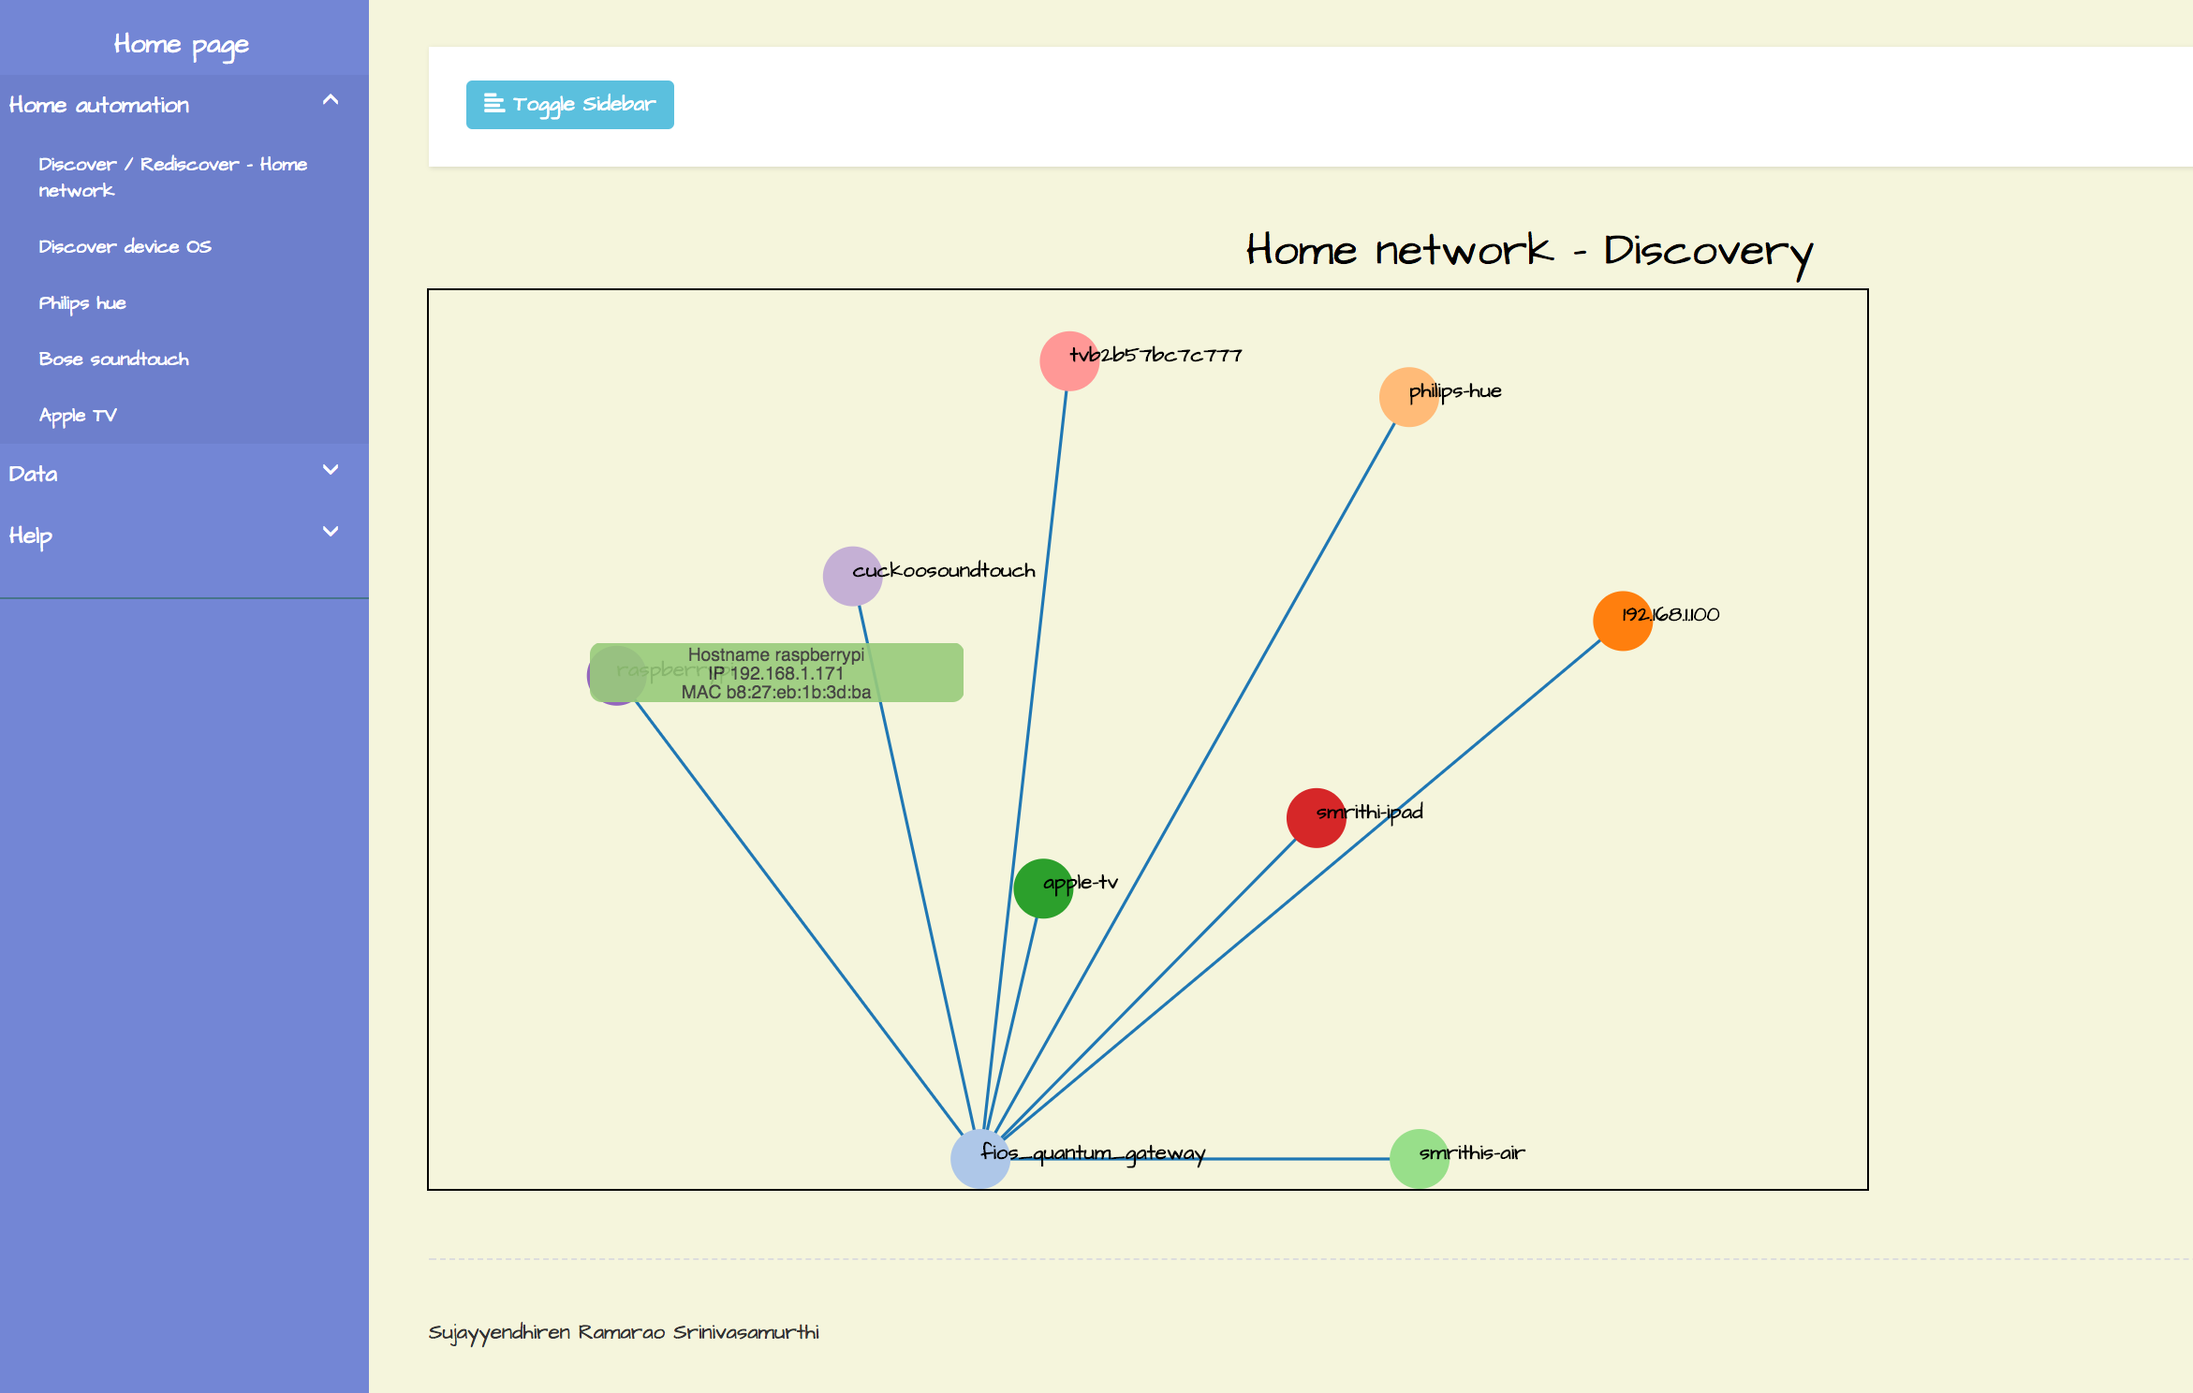
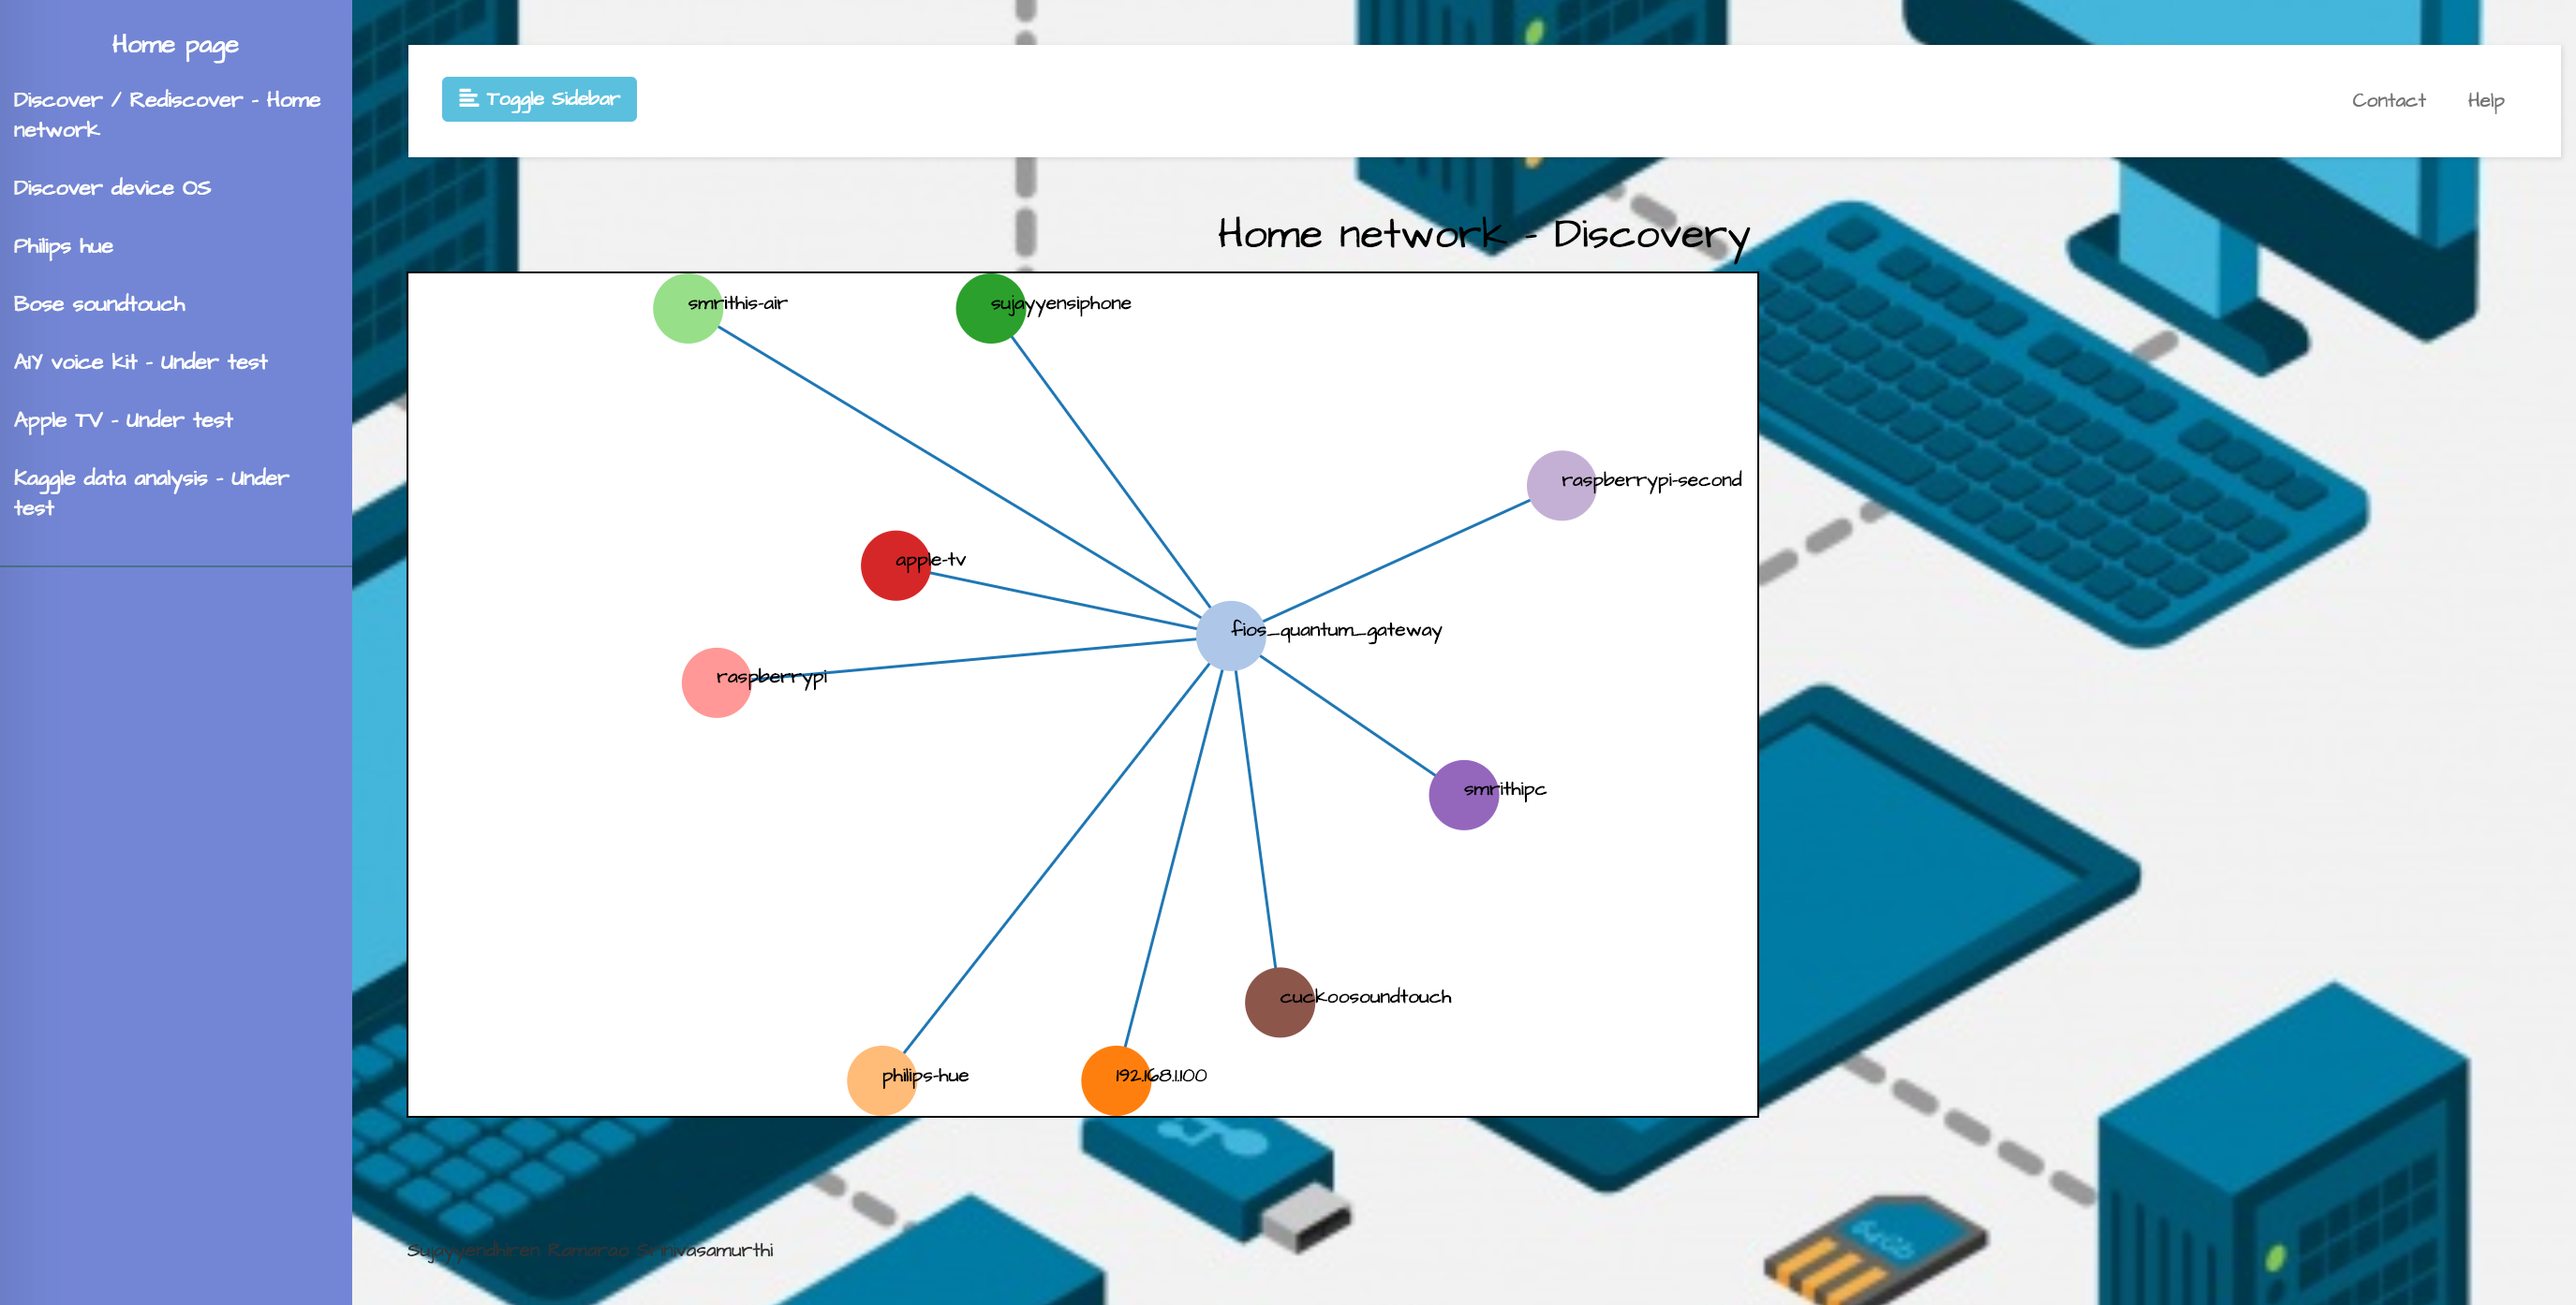
A few fixes and minor improvements.

diff --git a/templates/ostable.html b/templates/ostable.html
@@ -5,45 +5,47 @@
 {% block head %}
     {{ super() }}
     <link href="/static/css/discover.css" rel="stylesheet">
+    <style>
+        .container-full {
+            background-color: white;
+            margin: 0 auto;
+            width: 100%;
+        }
+    </style>
 {% endblock %}
 
 {% block content %}
 <h2 align="center">Home network - OS detection</h2>
-    
-<div class="panel panel-info">
-    <div class="panel-heading">Os detection
-    </div>
-    
-    <div class="panel-body">
-        <table class="table table-bordered table-striped" data-toggle="table" data-search="true" data-filter-control="true" data-show-export="true" data-click-to-select="true">
-            <thead>
-                <tr>
-                    <th>Hostname</th>
-                    <th>IP address</th>
-                    <th>OS name</th>
-                    <th>Detection Accuracy (%)</th>
-                    <th>Type</th>
-                    <th>Vendor</th>
-                    <th>OS family</th>
-                    <th>OS Gen</th>
-                </tr>
-            </thead>
 
-            <tbody>
-            {% for elem in osdata %}
-                <tr>
-                    <td>{{elem.hostname}}</td>
-                    <td>{{elem.ip}}</td>
-                    <td>{{elem.osname}}</td>
-                    <td>{{elem.osaccuracy}}</td>
-                    <td>{{elem.ostype}}</td>
-                    <td>{{elem.osvendor}}</td>
-                    <td>{{elem.osfamily}}</td>
-                    <td>{{elem.osgen}}</td>
-                </tr>
-            {%endfor%}
-            </tbody>
-        </table> 
-    </div>
+<div class="container-full">
+    <table class="table table-bordered table-striped" data-toggle="table" data-search="true" data-filter-control="true" data-show-export="true" data-click-to-select="true">
+        <thead>
+            <tr>
+                <th>Hostname</th>
+                <th>IP address</th>
+                <th>OS name</th>
+                <th>Detection Accuracy (%)</th>
+                <th>Type</th>
+                <th>Vendor</th>
+                <th>OS family</th>
+                <th>OS Gen</th>
+            </tr>
+        </thead>
+
+        <tbody>
+        {% for elem in osdata %}
+            <tr>
+                <td>{{elem.hostname}}</td>
+                <td>{{elem.ip}}</td>
+                <td>{{elem.osname}}</td>
+                <td>{{elem.osaccuracy}}</td>
+                <td>{{elem.ostype}}</td>
+                <td>{{elem.osvendor}}</td>
+                <td>{{elem.osfamily}}</td>
+                <td>{{elem.osgen}}</td>
+            </tr>
+        {%endfor%}
+        </tbody>
+    </table>
 </div>
 {% endblock %}

diff --git a/templates/d3homedevices.html b/templates/d3homedevices.html
@@ -29,17 +29,17 @@
   }
 </style>
 
-<svg width="960" height="600" align="center"></svg>
-
 <script src="https://d3js.org/d3.v4.min.js"></script>
 <link href="https://fonts.googleapis.com/css?family=Architects+Daughter" rel="stylesheet">
 
-<script>
+<svg width="960" height="600" align="center"></svg>
 
+<script>
 d3.select("body").style("background-color", d3.rgb(245, 245, 220))
 
 var svg = d3.select("svg")
-         .attr("style", "outline: thin solid black;");
+         .attr("style", "outline: thin solid black;")
+         .style("background-color", "white");
 
 var  width = +svg.attr("width");
 var height = +svg.attr("height");
@@ -54,7 +54,7 @@ var simulation = d3.forceSimulation()
 
 var color = d3.scaleOrdinal(d3.schemeCategory20);
 
-d3.json("/static/data/graph.json", function(error, graph) {
+d3.json("{{jsonfile}}", function(error, graph) {
     if (error) throw error;
                 
     //set up the simulation 

diff --git a/static/css/discover.css b/static/css/discover.css
@@ -10,15 +10,15 @@ http://css-tricks.com/perfect-full-page-background-image
 
 Photo:
 http://www.publicdomainpictures.net/view-image.php?image=44399
-
+*/
 
 body { 
-    background: url('/static/img/network.jpg') no-repeat center center fixed; 
+    background: url('/static/img/devices.jpg') no-repeat center center fixed; 
     -webkit-background-size: cover;
     -moz-background-size: cover;
     -o-background-size: cover;
     background-size: cover;
-}*/
+}
   
 .container{
   padding: 25px;   

diff --git a/templates/aiyvoicekit.html b/templates/aiyvoicekit.html
@@ -69,7 +69,7 @@
 </font>
 
 <div class="panel panel-default">
-    <div class="panel-heading"> AIY voicekit - {{rasphostname}} ({{raspip}})</div>
+    <div class="panel-heading"> AIY voicekit - {{service}} ({{status}})</div>
     <div class="panel-body" >
         <div class="container">
             <div class="form-group row">

diff --git a/osdetectioncron.py b/osdetectioncron.py
@@ -5,8 +5,10 @@ Description: Run this program from cron on a periodic basis and cache the data.
              and thus isolating this program helps us not run the flask app with sudo
              permissions
 """
+import os
 import json
 import traceback
+from glob import glob
 from collections import defaultdict
 from multiprocessing import Pool
 
@@ -14,34 +16,6 @@ import nmap
 import pysftp
 from library.network import HomeNetwork
 from library.Utility import Utility
-
-
-def syncaches():
-    """ Sync caches """
-
-    cfg = Utility.read_configuration(configfile="haconf.yml")
-
-    primary = cfg["CLUSTERINFO"]["primary"]
-    myhostname = Utility.hostname()
-    creds = cfg["CREDENTIALS"]
-
-    cnopts = pysftp.CnOpts()
-    cnopts.hostkeys = None
-    with pysftp.Connection(primary, username=creds["username"],\
-         password=creds["password"], cnopts=cnopts) as sftp:
-        with sftp.cd(cfg["DIRECTORY"]["syncdir"]):
-            primary = primary.split('.')[0]
-
-            if primary == myhostname:
-                return
-
-            for acache in cfg["DIRECTORY"]["getfiles"]:
-                print("---GET--- {}".format(acache.format(primary)))
-                sftp.get("cache/{0}".format(acache.format(primary)),\
-                    preserve_mtime=True)
-
-                print("---PUT--- {}".format(acache.format(myhostname)))
-                sftp.put("cache/{0}".format(acache.format(myhostname)))
 
 
 def oshandler(iphost):
@@ -131,6 +105,14 @@ def osdetection():
     Utility.cache('osdetection', 'write', newstruct)
     Utility.cache('osdetectfailed', 'write', osfailure)
 
+
+def cleanup():
+    """ Cleanup previously network topology temp data """
+
+    for afile in glob("static/data/networkdata-*.json"):
+        os.remove(afile)
+
 if __name__ == '__main__':
     HomeNetwork.create_tree()
     osdetection()
+    cleanup()

diff --git a/homeautomation.py b/homeautomation.py
@@ -7,6 +7,7 @@ import os
 import json
 import traceback
 from glob import glob
+from datetime import datetime
 
 import flask
 from flask import Flask, render_template, request
@@ -234,16 +235,15 @@ def osdetection():
 @application.route('/voicekit')
 def googlekit(msg=None):
     """ Google AIY kit """
-    cache = Utility.cache('devices', 'read')
+    service = None
+    status = None
 
-    for hostname in cache:
-        if 'rasp' in hostname and 'pi' in hostname:
-            raspip = cache[hostname]['ip']
-            rasphost = hostname
-            break
+    aiy = Aiy()
+    for service in aiy.available:
+        status = aiy.available[service]
 
-    return render_template('aiyvoicekit.html', rasphostname=rasphost,\
-                raspip=raspip, msg=msg)
+    return render_template('aiyvoicekit.html', service=service,\
+                status=status, msg=msg)
 
 
 @application.route('/aiy/<service>/<action>')
@@ -268,8 +268,10 @@ def aiycontrols(service=None, action=None):
 @application.route('/d3display')
 def d3display():
     """ Discover home network """
-    HomeNetwork.create_d3json()
-    return render_template('d3homedevices.html')
+    filename = "networkdata-{}.json".format(datetime.now())
+    jsonfile = "/static/data/{0}".format(filename)
+    HomeNetwork.create_d3json(jsonfile=jsonfile)
+    return render_template('d3homedevices.html', jsonfile=jsonfile)
 
 
 @application.route('/')

diff --git a/library/network.py b/library/network.py
@@ -130,7 +130,7 @@ class HomeNetwork(object):
         HomeNetwork.add_update_rows(newstruct)
 
     @staticmethod
-    def create_d3json():
+    def create_d3json(jsonfile="static/data/graph.json"):
         """ Create tree from sqlite data """
         gateway = None
         devices = defaultdict(list)
@@ -154,7 +154,10 @@ class HomeNetwork(object):
         for link in devices["links"]:
             link["source"] = gateway
 
-        with open("static/data/graph.json", 'w') as jswrt:
+        if jsonfile.startswith("/"):
+            jsonfile = jsonfile[1:]
+
+        with open(jsonfile, 'w') as jswrt:
             jswrt.write(json.dumps(devices, indent=4))
 
     @staticmethod

diff --git a/library/aiy.py b/library/aiy.py
@@ -27,9 +27,9 @@ class Aiy(object):
         for service in aiycfg["services"]:
             if os.path.isfile("{0}/{1}".format(self.rootdir, \
                 aiycfg["services"][service])):
-                self.available[service] = True
+                self.available[service] = "Available"
             else:
-                self.available[service] = "Not installed."
+                self.available[service] = "Not available on this host."
 
     def start(self, service):
         """ Start a program """

diff --git a/library/Utility.py b/library/Utility.py
@@ -28,6 +28,7 @@ class Utility(object):
 
     @staticmethod
     def hostname():
+        """ Get this device's hostname """
         return str(gethostname()).split(".")[0]
 
     @staticmethod
